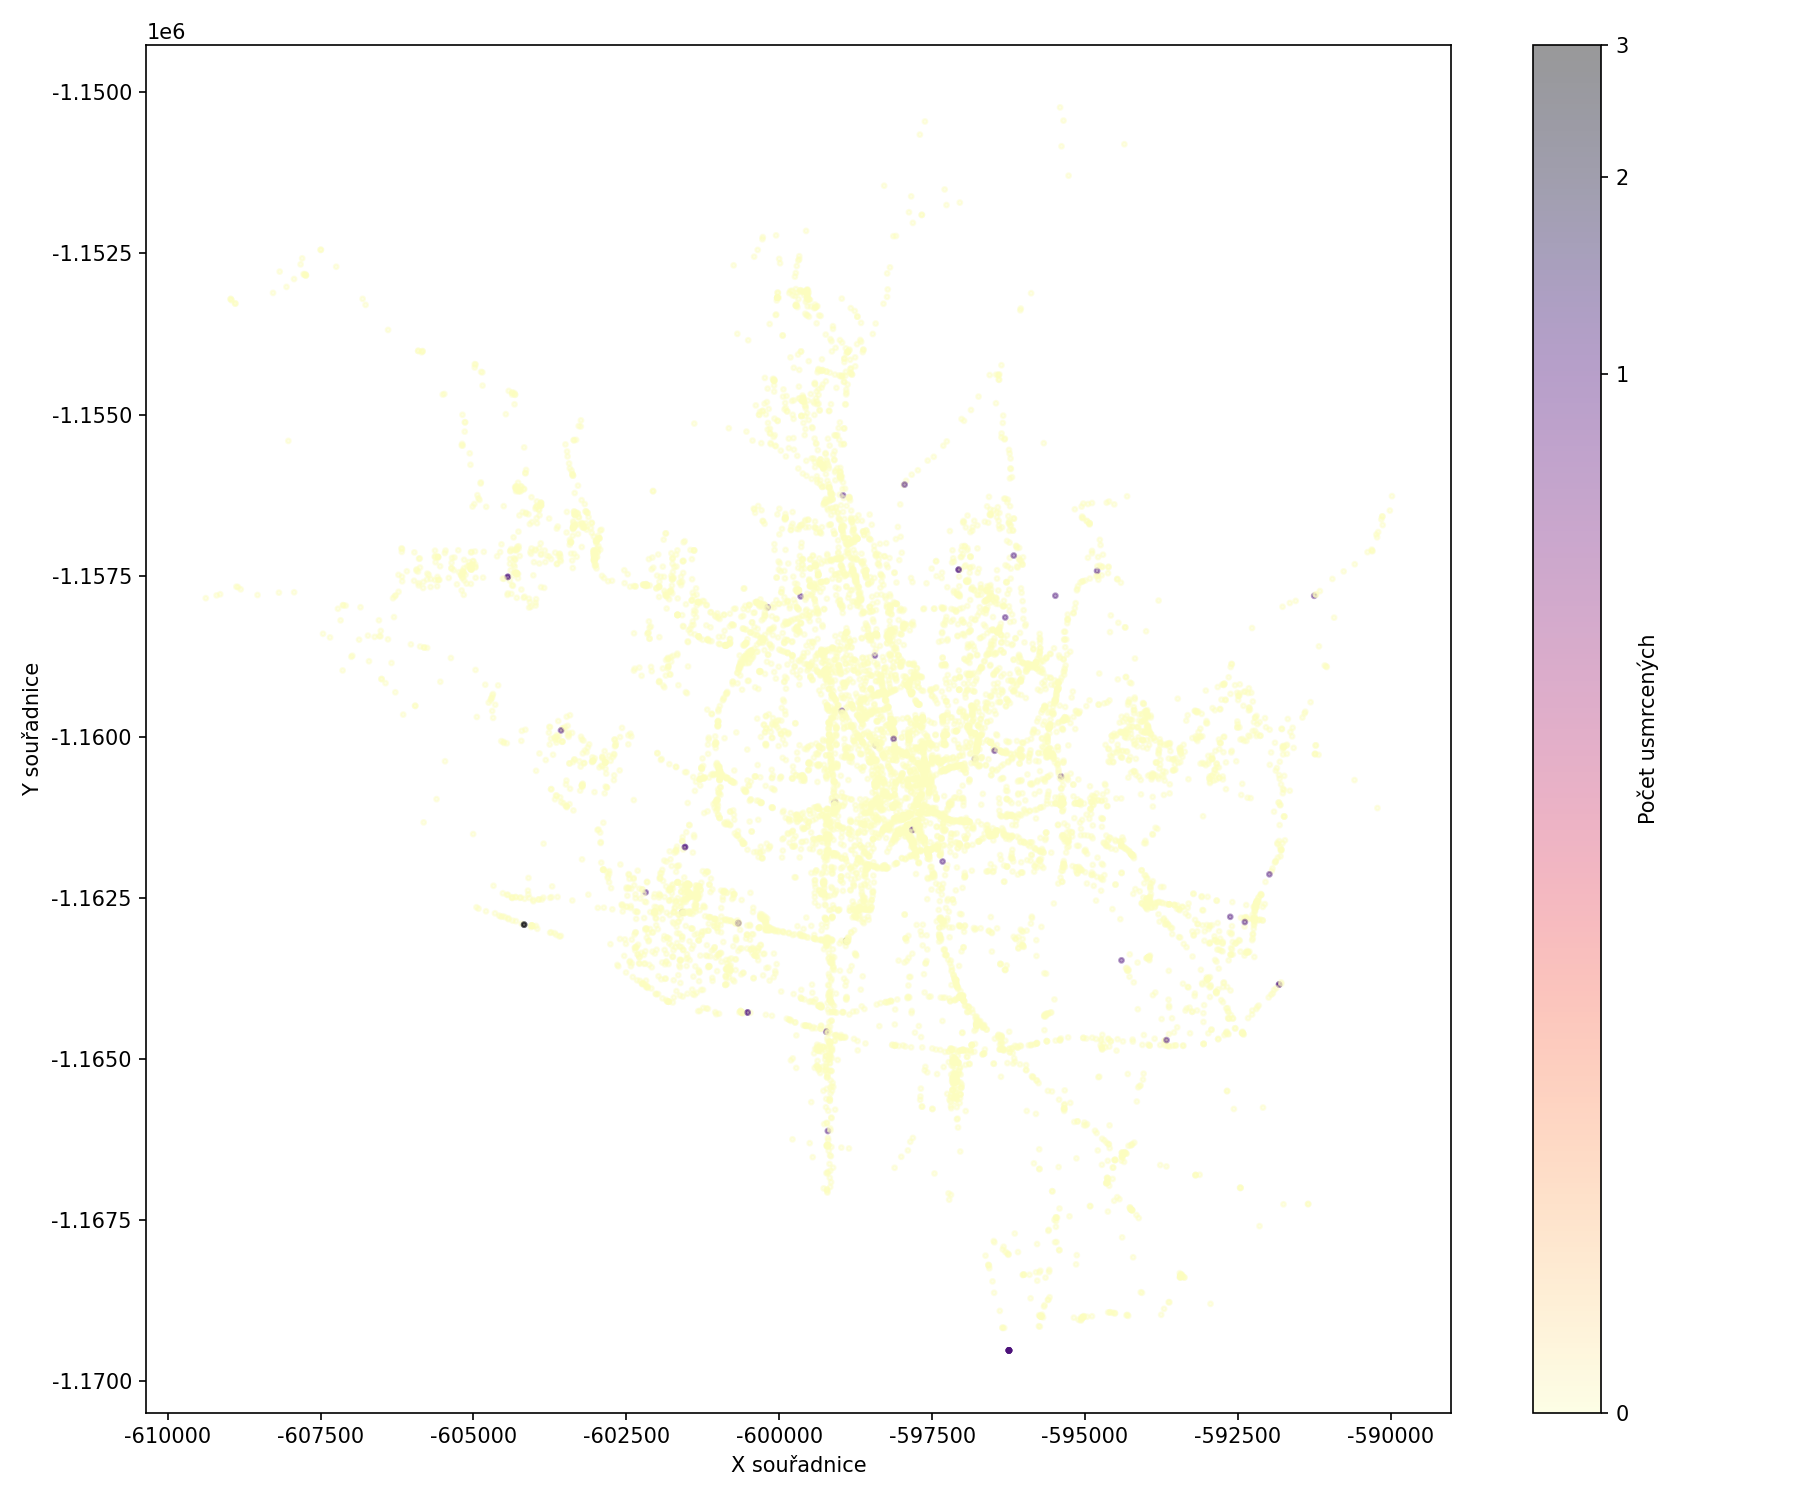
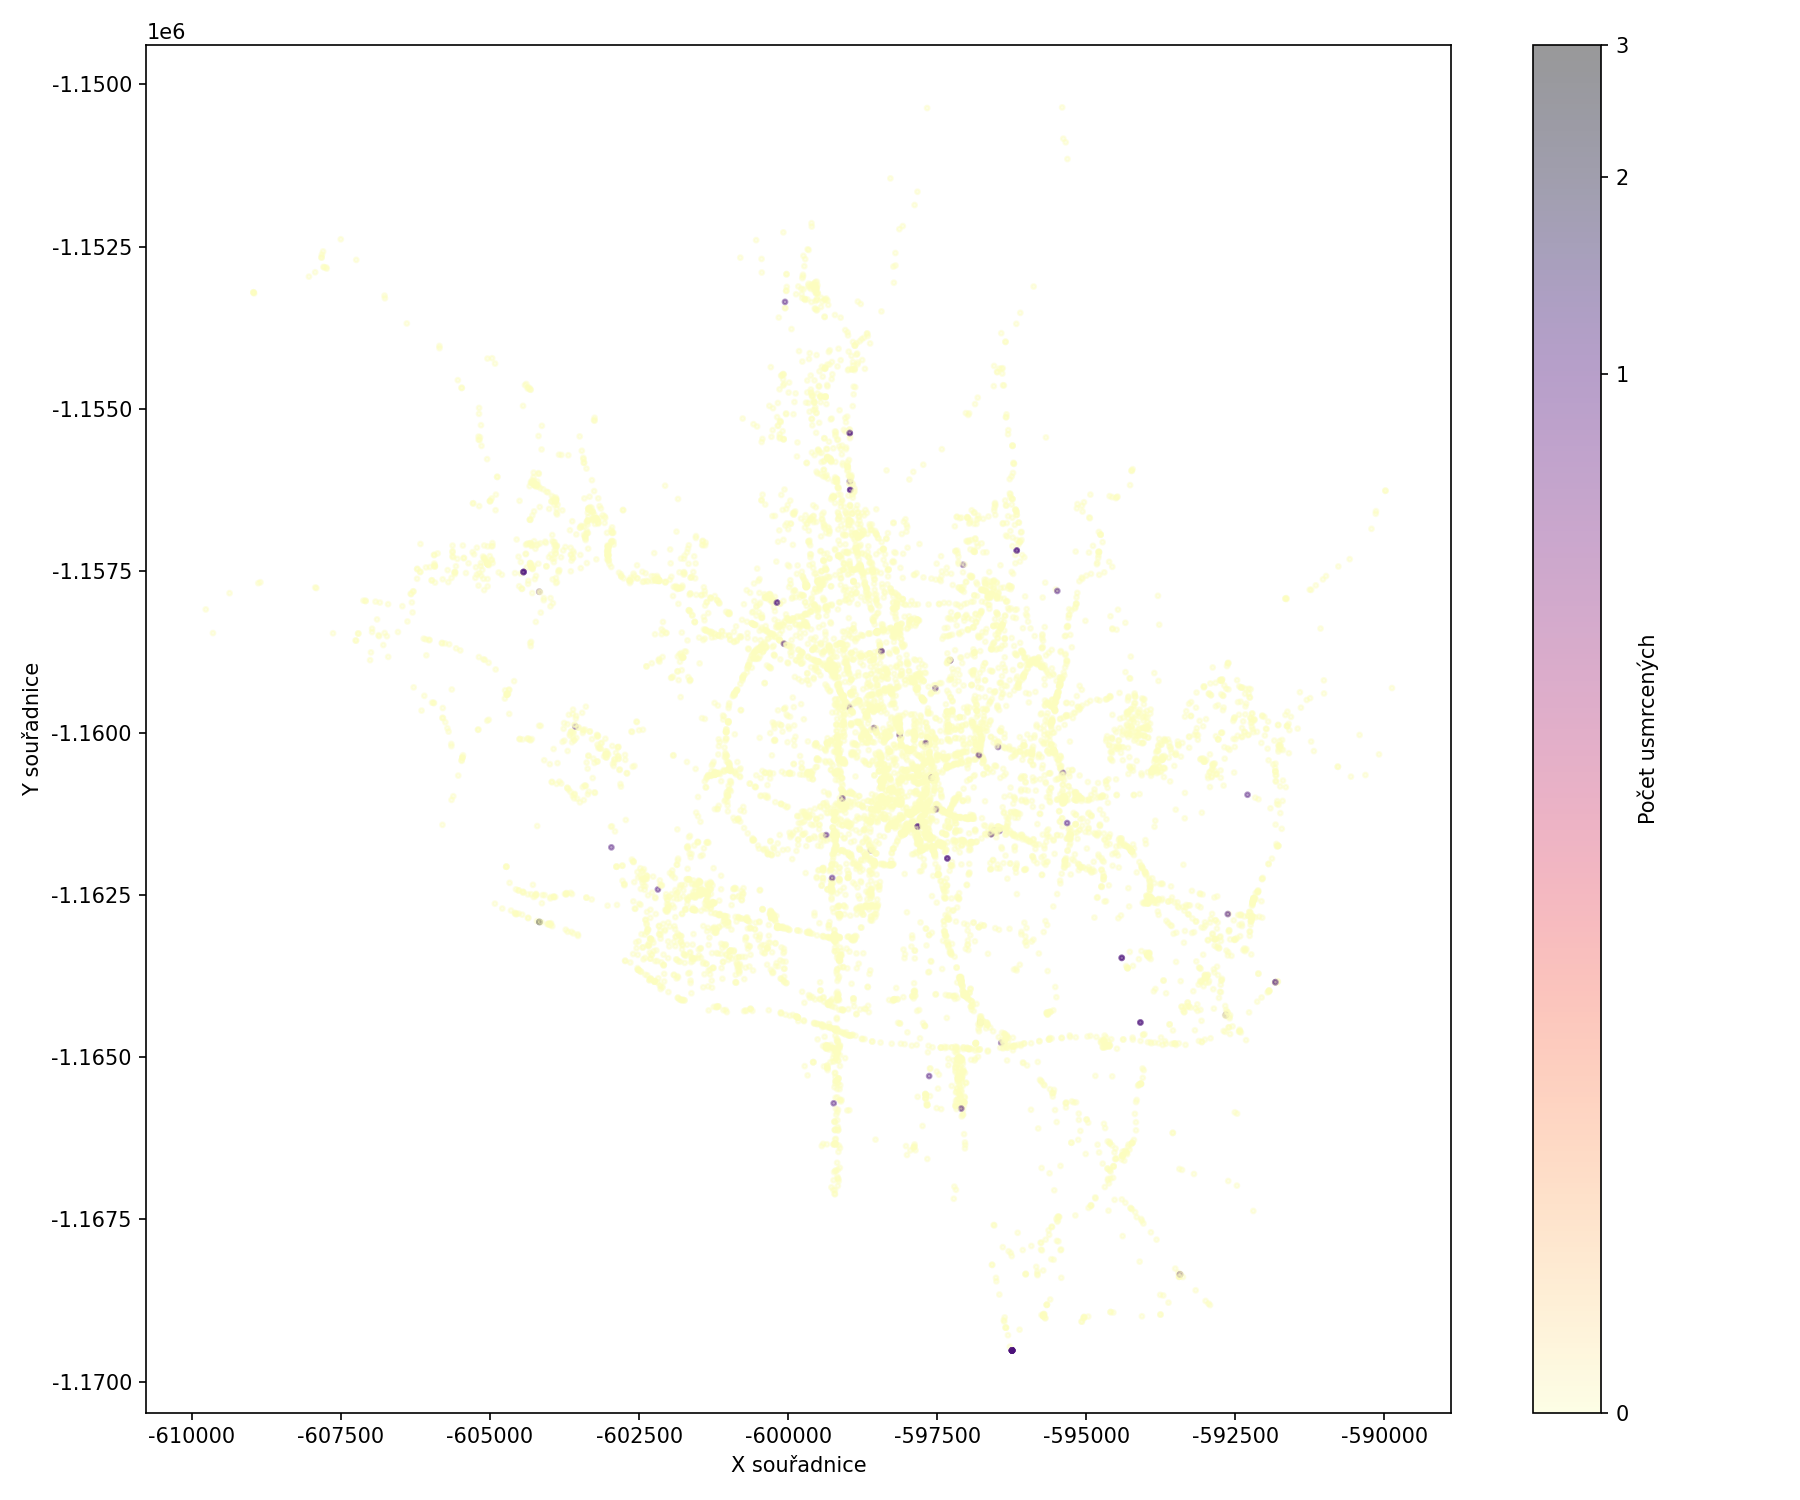
impro with graphs

diff --git a/nehodyAnalysis.py b/nehodyAnalysis.py
@@ -125,17 +125,36 @@ tiskni()
 tiskni("VLIV ALKOHOLU")
 tiskni("-" * 80)
 if 'alkohol_vinik' in df.columns:
-    alkohol_stats = df['alkohol_vinik'].value_counts()
-    celkem_s_alkoholem = alkohol_stats.get('ano', 0)
-    procento_alkohol = (celkem_s_alkoholem / len(df)) * 100
-    tiskni(f"  Nehody s alkoholem: {celkem_s_alkoholem:,} ({procento_alkohol:.2f}%)")
-    
-    # Úsmrtnost při alkoholu
-    usmrceni_alkohol = df[df['alkohol_vinik'] == 'ano']['usmrceno_os'].sum()
-    usmrceni_celkem = df['usmrceno_os'].sum()
-    if usmrceni_celkem > 0:
-        procento_smrti = (usmrceni_alkohol / usmrceni_celkem) * 100
-        tiskni(f"  Usmrcení při alkoholu: {usmrceni_alkohol} ({procento_smrti:.1f}% všech úmrtí)")
+    alkohol_stats = df['alkohol_vinik'].fillna('nezjištěno').str.lower().map(
+        lambda x: 's alkoholem' if x == 'ano' else ('bez alkoholu' if x == 'ne' else 'nezjištěno')
+    )
+    alko_counts = alkohol_stats.value_counts()
+    alko_usmrceni = df.groupby(alkohol_stats)['usmrceno_os'].sum()
+
+    total = len(df)
+    for k in ['bez alkoholu', 's alkoholem', 'nezjištěno']:
+        pocet = alko_counts.get(k, 0)
+        usmr = alko_usmrceni.get(k, 0)
+        fatal_rate = (usmr / pocet * 100) if pocet else 0
+        podil = (pocet / total * 100) if total else 0
+        tiskni(f"  {k:13}: {pocet:>6,} nehod ({podil:>5.2f}%), usmrceno {int(usmr)}, úmrtnost {fatal_rate:>5.2f}%")
+
+    # Úmrtnost při konkrétních hladinách alkoholu (řidič)
+    if 'alkohol' in df.columns:
+        alkohol_hladina = df['alkohol'].fillna('Nezjištěno')
+        hladina_counts = alkohol_hladina.value_counts()
+        hladina_usmrceni = df.groupby(alkohol_hladina)['usmrceno_os'].sum()
+        hladina_stats = (
+            pd.DataFrame({'nehod': hladina_counts, 'usmrceni': hladina_usmrceni})
+            .fillna(0)
+        )
+        hladina_stats['umrtnost_pct'] = (hladina_stats['usmrceni'] / hladina_stats['nehod']) * 100
+        # report top 5 dle úmrtnosti pro kategorie s alespoň 20 záznamy
+        top_hladiny = hladina_stats[hladina_stats['nehod'] >= 20].sort_values('umrtnost_pct', ascending=False).head(5)
+        if not top_hladiny.empty:
+            tiskni("  Nejvyšší úmrtnost podle hladiny (min 20 záznamů):")
+            for name, row in top_hladiny.iterrows():
+                tiskni(f"    {name}: {int(row['nehod'])} nehod, {int(row['usmrceni'])} usmrc., úmrtnost {row['umrtnost_pct']:.2f}%")
 tiskni()
 
 # Stav vozovky
@@ -281,6 +300,78 @@ plt.tight_layout()
 plt.savefig("graphs/nehody/nehody_top_lokality_procenta_usmrceni.png", dpi=150)
 print("Graf 2c: graphs/nehody/nehody_top_lokality_procenta_usmrceni.png")
 plt.close()
+
+# Graf 2d: Nehody s alkoholem / s drogami / bez (počty, úmrtnost)
+if 'alkohol_vinik' in df.columns:
+    fig2d, ax2d = plt.subplots(figsize=(9, 6))
+
+    def stav_alko_drogy(row):
+        alko_flag = str(row['alkohol_vinik']).lower() if pd.notna(row['alkohol_vinik']) else ''
+        alko_popis = str(row['alkohol']).lower() if 'alkohol' in row and pd.notna(row['alkohol']) else ''
+        if 'drog' in alko_popis:
+            return 'drogy'
+        if alko_flag == 'ano' or 'alkohol' in alko_popis:
+            return 'alkohol'
+        if alko_flag == 'ne':
+            return 'bez alkoholu/drog'
+        return 'nezjištěno'
+
+    status_series = df.apply(stav_alko_drogy, axis=1)
+    status_counts = status_series.value_counts()
+    status_usmrceni = df.groupby(status_series)['usmrceno_os'].sum()
+    order = ['bez alkoholu/drog', 'alkohol', 'drogy', 'nezjištěno']
+    colors = ['steelblue', 'firebrick', 'purple', 'gray']
+    counts_ordered = [status_counts.get(k, 0) for k in order]
+    deaths_ordered = [status_usmrceni.get(k, 0) for k in order]
+    fatal_rates = [(d / c * 100) if c else 0 for d, c in zip(deaths_ordered, counts_ordered)]
+
+    bars4 = ax2d.bar(order, counts_ordered, color=colors)
+    ax2d.set_ylabel('Počet nehod')
+    ax2d.set_title('Nehody: alkohol vs drogy vs bez')
+
+    for bar, d, rate in zip(bars4, deaths_ordered, fatal_rates):
+        height = bar.get_height()
+        ax2d.text(bar.get_x() + bar.get_width()/2, height * 1.01,
+                  f"{int(height)} nehod\n{int(d)} usmrc. ({rate:.2f}% úmrt.)",
+                  ha='center', va='bottom', fontsize=8)
+
+    plt.tight_layout()
+    plt.savefig("graphs/nehody/nehody_alkohol_srovnani.png", dpi=150)
+    print("Graf 2d: graphs/nehody/nehody_alkohol_srovnani.png")
+    plt.close()
+
+# Graf 2e: Úmrtnost podle hladiny alkoholu (řidič) – kategorie s min 20 záznamy
+if 'alkohol' in df.columns:
+    fig2e, ax2e = plt.subplots(figsize=(12, 7))
+    alkohol_hladina = df['alkohol'].fillna('Nezjištěno')
+    hladina_counts = alkohol_hladina.value_counts()
+    hladina_usmrceni = df.groupby(alkohol_hladina)['usmrceno_os'].sum()
+    hladina_stats = (
+        pd.DataFrame({'nehod': hladina_counts, 'usmrceni': hladina_usmrceni})
+        .fillna(0)
+    )
+    hladina_stats['umrtnost_pct'] = (hladina_stats['usmrceni'] / hladina_stats['nehod']) * 100
+    hladina_filtered = hladina_stats[hladina_stats['nehod'] >= 20].sort_values('umrtnost_pct', ascending=False)
+
+    if not hladina_filtered.empty:
+        y_labels = hladina_filtered.index
+        bars5 = ax2e.barh(range(len(hladina_filtered)), hladina_filtered['umrtnost_pct'], color='darkred')
+        ax2e.set_yticks(range(len(hladina_filtered)))
+        ax2e.set_yticklabels(y_labels, fontsize=9)
+        ax2e.invert_yaxis()
+        ax2e.set_xlabel('Úmrtnost (% z nehod v kategorii)')
+        ax2e.set_title('Úmrtnost podle hladiny alkoholu řidiče')
+
+        for bar, (nehod, usmrceni) in zip(bars5, zip(hladina_filtered['nehod'], hladina_filtered['usmrceni'])):
+            width = bar.get_width()
+            ax2e.text(width * 1.01, bar.get_y() + bar.get_height()/2,
+                      f"{width:.2f}% | {int(usmrceni)} usmrc., {int(nehod)} nehod",
+                      va='center', ha='left', fontsize=8)
+
+        plt.tight_layout(rect=[0, 0, 0.82, 1])
+        plt.savefig("graphs/nehody/nehody_alkohol_umrtnost.png", dpi=150)
+        print("Graf 2e: graphs/nehody/nehody_alkohol_umrtnost.png")
+        plt.close()
 
 # Graf 3: Hlavní příčiny
 if 'hlavni_pricina' in df.columns:
